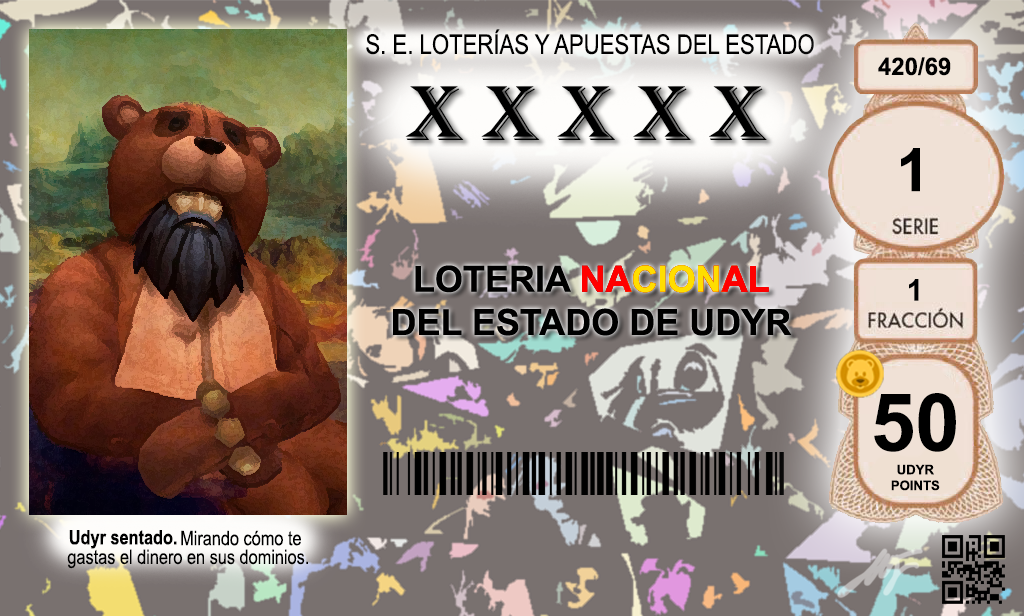
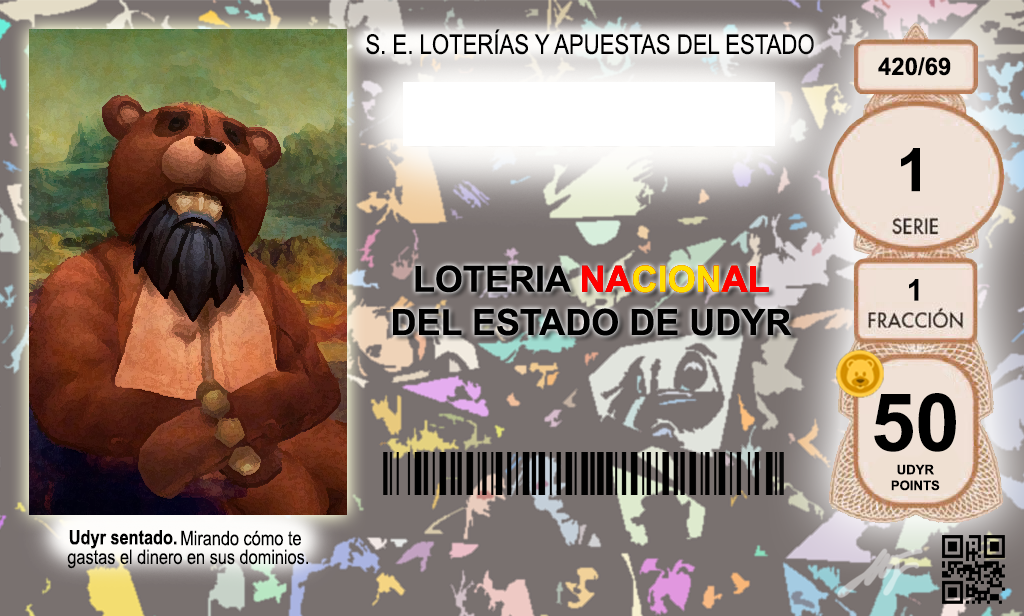
cambios a los boletos

Changed region(s): [[0.375, 0.1234, 0.75, 0.2468]]

diff --git a/comandos/boleto.js b/comandos/boleto.js
@@ -1,7 +1,8 @@
-const { Message, Client, MessageEmbed } = require('discord.js');
+const { Message, Client, MessageEmbed, MessageAttachment } = require('discord.js');
 const boletoModel = require('../models/boletoSchema');
 const profileModel = require('../models/profileSchema');
 const impuestoModel = require('../models/impuestoSchema')
+const Canvas = require('canvas');
 module.exports = {
     name: 'boleto',
     aliases: ['boletos'],
@@ -130,15 +131,35 @@ module.exports = {
         })
         await boletoFinal.save()
         //AQUI MUESTRO EL BOLETO DESPUES DE COMPRARLO
+        // Create a 700x250 pixel canvas and get its context
+        // The context will be used to modify the canvas
+        const canvas = Canvas.createCanvas(1024, 616);
+        const context = canvas.getContext('2d');
+        const background = await Canvas.loadImage('./images/loteria_udyr.png');
+
+        // This uses the canvas dimensions to stretch the image onto the entire canvas
+        context.drawImage(background, 0, 0, canvas.width, canvas.height);
+        // Use the helpful Attachment class structure to process the file for you
+
+        // Select the font size and type from one of the natively available fonts
+        context.font = '80px algerian';
+
+        // Select the style that will be used to fill the text in
+        context.fillStyle = '#000000';
+
+        // Actually fill the text with a solid color
+        context.fillText(numeroBoletoUser.split('').join(" "), canvas.width / 2.35, canvas.height / 4.3);
+
+        const attachment = new MessageAttachment(canvas.toBuffer(), 'boleto.png');
         const newEmbed = new MessageEmbed()
             .setColor("#B17428")
             .setTitle(`LOTERIA DE UDYR`)
             .addFields(
                 { name: "COMPRADOR", value: message.member.displayName, inline: true },
                 { name: "N\u00DAMERO", value: numeroBoletoUser, inline: true })
-            .setImage("https://cdn.discordapp.com/attachments/953974289919520778/961736600537161728/loteria_udyr.png")
+            .setImage("attachment://boleto.png")
         message.channel.send(`Has comprado el boleto con n\u00FAmero ${numeroBoletoUser}!`)
-        message.channel.send(newEmbed)
+        message.channel.send({ embeds: [newEmbed], files: [attachment] })
         message.delete()
         console.log(`FIN ${cmd.toUpperCase()}`)
     }

diff --git a/comandos/loteria.js b/comandos/loteria.js
@@ -88,7 +88,7 @@ module.exports = {
             leerDiscurso(discurso, message)
             var dineroPrimerPremio = Math.floor(Number(serverDinero.udyrcoins) * 60 / 100)
             var dineroSegundoPremio = Math.floor((Number(serverDinero.udyrcoins) - dineroPrimerPremio) * 60 / 100)
-            var tercerPremio = Number(serverDinero.udyrcoins) - dineroPrimerPremio - dineroSegundoPremio
+            var tercerPremio = Math.floor((Number(serverDinero.udyrcoins) - dineroPrimerPremio - dineroSegundoPremio) * 60 / 100)
             console.log(dineroPrimerPremio + " " + dineroSegundoPremio + " " + tercerPremio)
             await profileModel.findOneAndUpdate({
                 userID: ganador.userID,

diff --git a/comandos/efectos.js b/comandos/efectos.js
@@ -16,6 +16,10 @@ module.exports = {
      */
     async execute(message, args, cmd, client, Discord, profileData) {
         console.log(`INICIO ${cmd.toUpperCase()}`)
+        var mensajeABorrar
+        message.channel.send("Generando imagen...").then(msg => {
+            mensajeABorrar = msg
+        })
         var md = message.guild == undefined
         var target = message.mentions.users.first() ? message.mentions.users.first() : message.author
         var texto = ""
@@ -106,6 +110,7 @@ module.exports = {
         if (!md) {
             message.delete()
         }
+        mensajeABorrar.delete()
         console.log(`FIN ${cmd.toUpperCase()}`)
     }
 }

diff --git a/index.js b/index.js
@@ -111,13 +111,16 @@ global.metodosUtiles = {
         var numero = String(aux);
         var numeros = "1234567890"
         var isValid = false;
-        for (var i = 0; i < numero.length && isValid; i++) {
+        for (var i = 0; i < numero.length; i++) {
             isValid = false;
             for (var j = 0; j < numeros.length; j++) {
                 if (numero.charAt(i) == numeros.charAt(j)) {
                     isValid = true;
                     break;
                 }
+            }
+            if (isValid == false) {
+                break;
             }
         }
         return isValid;
